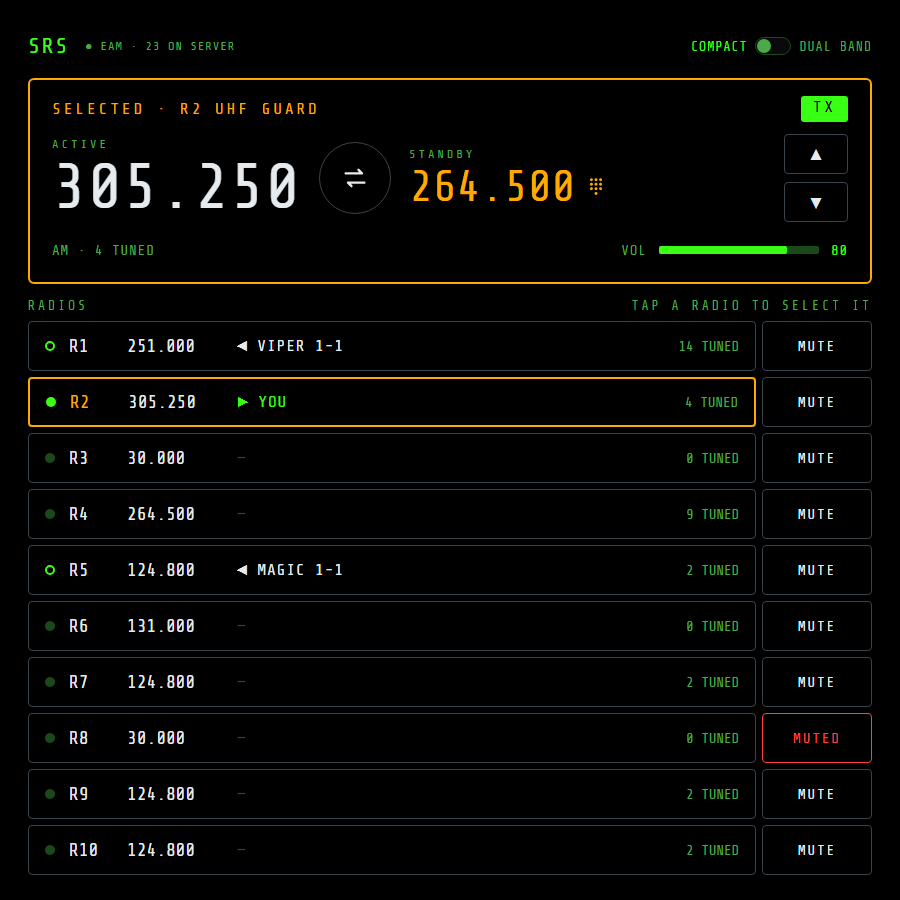
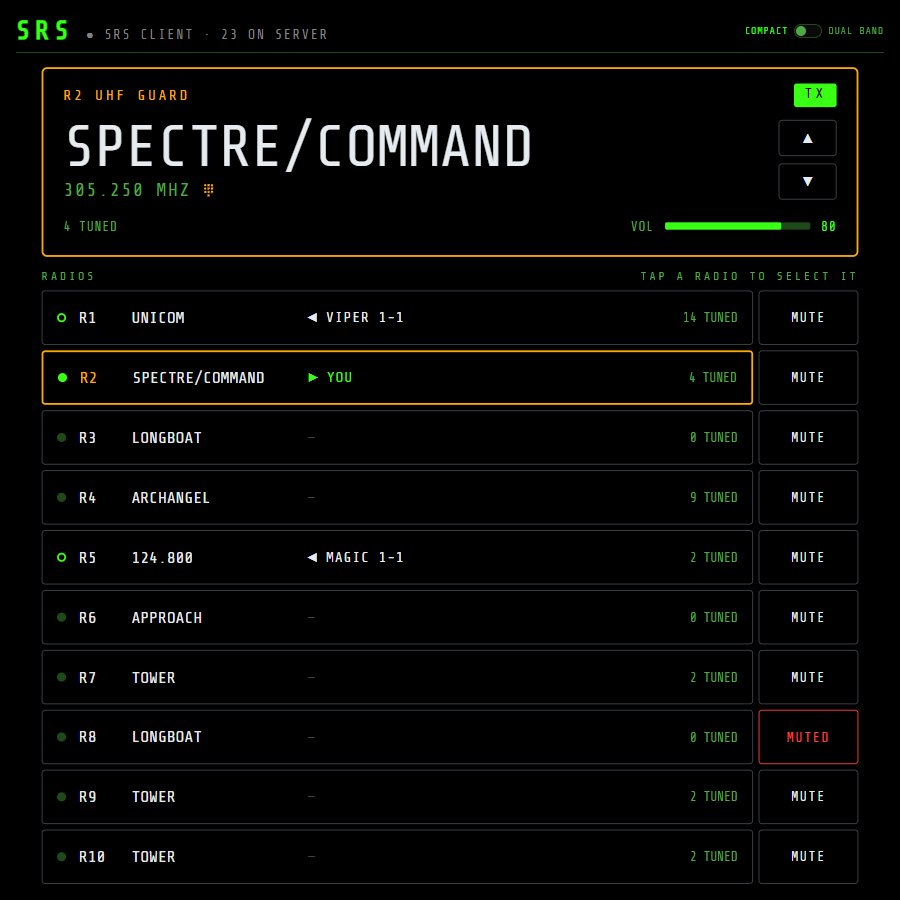
README: compact screenshot with the preset head; /shot shows server presets

Changed region(s): [[0.0, 0.0, 0.9956, 0.9956], [0.9333, 0.7156, 0.9644, 0.7467]]

diff --git a/tools/preview.py b/tools/preview.py
@@ -17,7 +17,7 @@ NOXMFD's no-aircraft ping (main menu, spawn screen), which carries the slice too
   no-data, port-busy, stale
 POST /ext/srs/command is checked like SrsCommandMap.cs; in live mode the datagram goes to the real
 SRS on UDP 9040, otherwise a rough simulation applies it to the mock. GET /commands lists them.
-GET /shot?layout=compact|dual switches to busy, seeds the page's own saved state (standby
+GET /shot?layout=compact|dual switches to presets, seeds the page's own saved state (standby
 frequencies, MON on R1) and opens the page in that layout: the README screenshots.
 """
 import copy, json, socket, sys, threading, time, uuid
@@ -201,7 +201,7 @@ class H(BaseHTTPRequestHandler):
             except (BrokenPipeError, ConnectionResetError, ConnectionAbortedError):
                 return
         if path == "/shot":
-            state["s"] = "busy"
+            state["s"] = "presets"
             layout = "dual" if parse_qs(u.query).get("layout") == ["dual"] else "compact"
             seed = {"standby": {"2": 264.5e6, "1": 282e6}, "com2": 1, "layout": layout}
             sets = "".join(f"localStorage.setItem('srs.{k}', {json.dumps(json.dumps(v))});" for k, v in seed.items())
